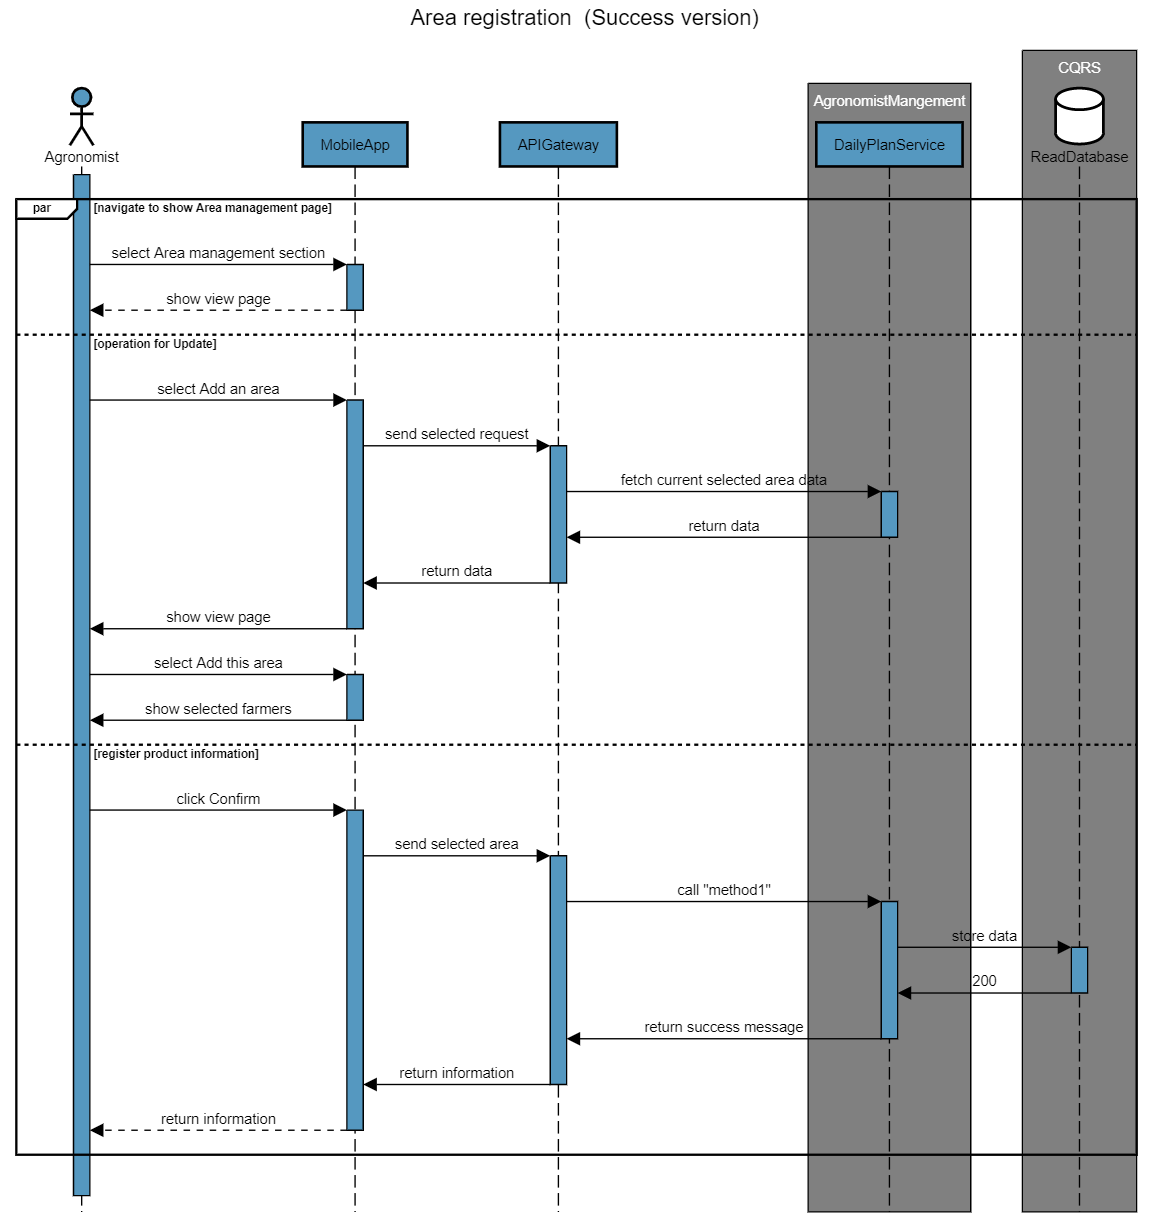
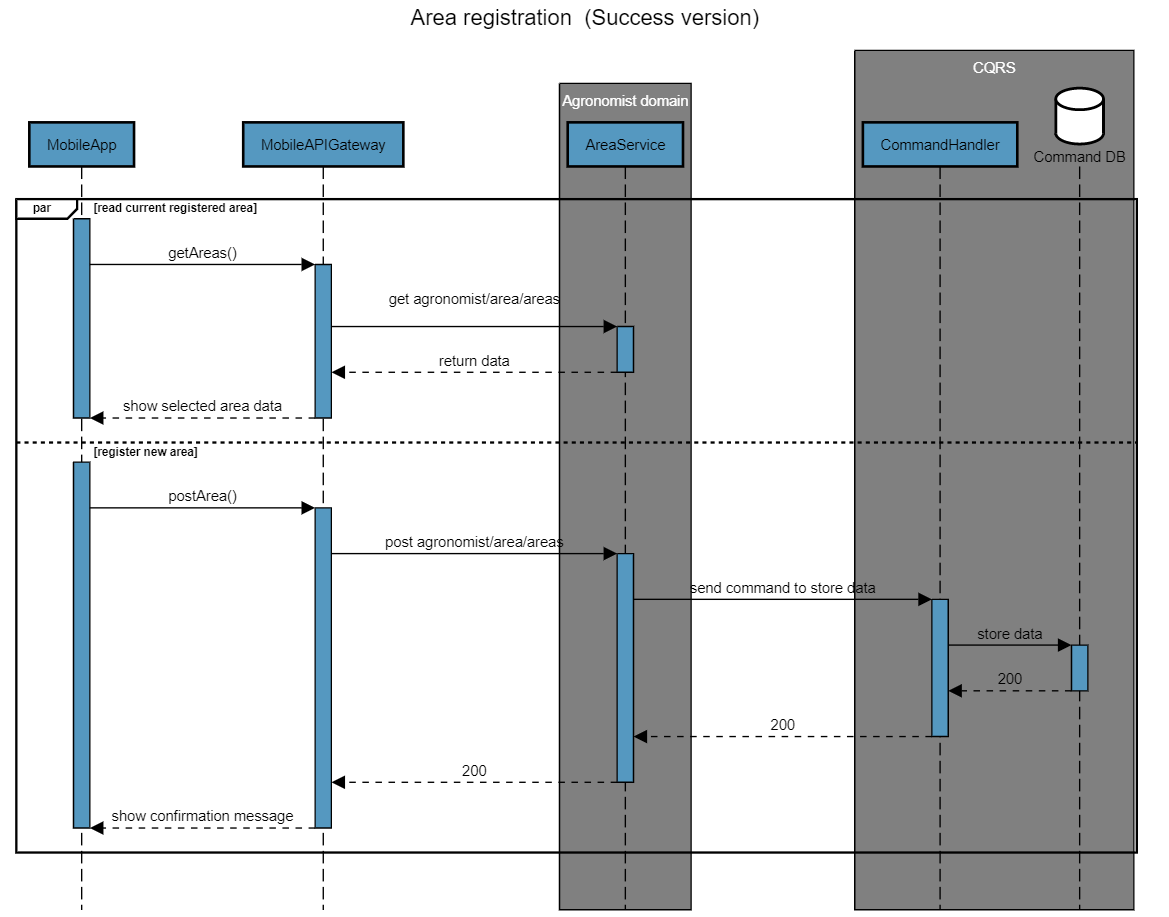
add sequence diagram description, link, refine images

Changed region(s): [[0.0, 0.0305, 0.9855, 1.0], [0.3388, 0.0, 0.6467, 0.0305], [0.9547, 0.458, 0.9855, 0.4885]]

diff --git a/DD/Files/2.Architectural design/runtime_view.tex b/DD/Files/2.Architectural design/runtime_view.tex
@@ -1,42 +1,109 @@
 % ############### 2.4) RUNTIME VIEW ####################
 
-sequence diagrams, interactions description \ldots
+For letting diagram simpler, we supposed that all the example below are operations of success version (without considering any exceptions, every actor inserts the data correctly and satisfies their authorization requirements).
+\newline
+Additionally we also note that API gateway does a communication with authorization server to generate a token to let users execute only the ones they have permission to do. 
 
-Possibly not necessary "Account service"?
+
 \begin{figure}[H]
 	\centering
     \includegraphics[width=\textwidth]{Images/sequence-diagram/sign-up.png}
 	\caption{\label{fig:se_sign_up}Sign Up}
 \end{figure}
+Actor: All type of user
+\newline
+UI flow: {\ref{sec:user_mobile_interface} Sign Up, Login}
 
-Possibly not necessary "Policy maker service"?
+Firstly this diagram explains the flow of sign up for all type of user. 
+Due to CQRS pattern, there are two different database according to their purpose (\ref{sec:component_view}). 
+\newline
+\textsc{\textcolor{blue}{flow overview}}
+
+Mobile App sends a method ”postUser()” to Mobile Api Gateway, then service discovery does a job to find a routing path by URL of REST api.
+Then SignUpService receives post request, after that for updating the database, since it is write operation, it sends command to Command handler to insert the data into Command DB. 
+
+\newpage
 \begin{figure}[H]
 	\centering
     \includegraphics[width=\textwidth]{Images/sequence-diagram/incentive-management.png}
 	\caption{\label{fig:se_incentive}Incentive management}
 \end{figure}
+Actor: Policy maker
+\newline
+UI flow: {\ref{sec:pm_web_interface} Farmer's performance data}
 
+Secondly on this diagram, we would like to highlight about the reasoning of our design decision. We utilized CQRS pattern though, here it shows a comparison of each flow, one with CQRS pattern architecture, another without it.
+By the fact we consider the analysis part taken cared by 3rd party systems, it also suits to have replica of database to fetch aggregated data when it is needed regardless of condition of their system.
+\newline
+\textsc{\textcolor{blue}{flow overview}}
+\newline
+Above part describes the flow of read operation. Search and show the data from database, it is required to access Query DB.
+Then the below part explains the flow of write operation.
+Incentive service needs to call Notification service to let the farmer who is selected to receive it.
+
+\newpage
 \begin{figure}[H]
 	\centering
     \includegraphics[width=\textwidth]{Images/sequence-diagram/product-info.png}
 	\caption{\label{fig:se_product}Product information registration}
 \end{figure}
+Actor: Farmer
+\newline
+UI flow: {\ref{sec:farmer_mob_interface} Production data registration, Help/Suggestion request}
 
-Possibly not necessary "Messaging service"?
+From this diagram, we consider API gateway component contains the operation to communicate with discovery service to find the suitable service location, besides that we also expect that each service has interfaces right before receiving a request as they are shown in two examples above (sign up, incentive management).
+\newline
+\textsc{\textcolor{blue}{flow overview}}
+\newline
+Farmer inserts needed information and send the production data to register it. API gateway contacts to authorization server to assure the permission, if it is verified, then discovery service finds ProductInformationService and execute the method. Since it is write operation, it sends data to Command handler to insert into Command DB.  
+
+\newpage
 \begin{figure}[H]
 	\centering
     \includegraphics[width=\textwidth]{Images/sequence-diagram/help-request.png}
 	\caption{\label{fig:se_help}Help request registration}
 \end{figure}
+Actor: Farmer
+\newline
+UI flow: {\ref{sec:farmer_mob_interface} Production data registration, Help/Suggestion request}
 
+This diagram explains the flow of asking help request.
+As a previous step, it requires farmer to select whom they would like to ask though, we assumed this operation has been done in advance and the diagram above describes the phase afterwards.
+\newline
+\textsc{\textcolor{blue}{flow overview}}
+\newline
+First half shows the flow of read operation to visualise the past messages, on the other hand the below part represents the write operation to send the message. 
+For read operation it does not access to Query DB since the data is not aggregated data, it simply access the database inside of own service.
+
+\newpage
 \begin{figure}[H]
 	\centering
     \includegraphics[width=\textwidth]{Images/sequence-diagram/area-registration.png}
 	\caption{\label{fig:se_area}Area registration}
 \end{figure}
+Actor: Agronomist
+\newline
+UI flow: {\ref{sec:agronomist_mob_interface} Area management}
 
+This diagram shows the flow of registering new area to supervise. As like other examples, this diagram contains read and write operation individually.
+
+\textsc{\textcolor{blue}{flow overview}}
+\newline
+Firstly by calling getAreas(), it will fetch current area information about the place(name of farmers, agronomist). After agronomist observe area information and if they are interested in they could register a new area to supervise it. Write operation require to update Command DB to let new registered data be reachable by other services.
+
+\newpage
 \begin{figure}[H]
 	\centering
     \includegraphics[width=\textwidth]{Images/sequence-diagram/daily-plan.png}
-	\caption{\label{fig:se_daily}Daily plan registration}
+	\caption{\label{fig:se_daily}Remove Daily plan}
 \end{figure}
+Actor: Agronomist
+\newline
+UI flow: {\ref{sec:agronomist_mob_interface} Daily plan management}
+
+As a last example, this diagram shows the flow of updating daily plan of agronomist.
+Unlike other insertion examples, here it deletes the record from database, so it requires DELETE method.
+\newline
+\textsc{\textcolor{blue}{flow overview}}
+\newline
+On the upper part it let agronomist know the daily plan they have. Instead, the bottom explains the flow of deletion operation. Specifying id in url, Command Handler searches the record owns that id and it deletes the one matches. 

diff --git a/DD/Files/5.IIT_plan/integration_plan.tex b/DD/Files/5.IIT_plan/integration_plan.tex
@@ -1,18 +1,53 @@
 % ############ 5.2) INTEGRATION PLAN ########################
 
+
 In this section, we describe how the components are integrated in order to build the S2B. The integration is divided into different phases.
 \newline
 
 First of all, the first components to build are the microservices, since they are the core of the system. It is possible to prioritize the integration of the most critical services at first, and later on add the other services.
-\newline
 
-After this, the API gateway and the Event BUS are the next things to add. The Event BUS will implement all the design patterns related to database communication between microservices, in order to guarantee a correct transmission of information. The API gateway, on the other end, will assure the correct invocation of the methods and functionalities of the microservices.
-\newline
+\begin{figure}[H]
+	\centering
+    \includegraphics[scale=0.4]{Images/Impl, Integr & Test/Integration Plan - Step 1.png}
+	\caption{\label{fig:integration_plan_step_1}Integration - Step 1}
+\end{figure}
+
+After this, the Event BUS is the next thing to add, together with the Shared Read-Only DB. The Event BUS will implement all the design patterns related to database communication between microservices, in order to guarantee a correct transmission of information. The Shared Read-Only DB, crucial in the CQRS pattern, will be kept up-to-date by every single microservice.
+
+\begin{figure}[H]
+	\centering
+    \includegraphics[scale=0.4]{Images/Impl, Integr & Test/Integration Plan - Step 2.png}
+	\caption{\label{fig:integration_plan_step_2}Integration - Step 2}
+\end{figure}
+
+Now comes the API gateway, that will assure the correct invocation of the methods and functionalities of the microservices, together with the Discovery Service, used for routing the requests to the correct microservice instance and for load balancing.
+
+\begin{figure}[H]
+	\centering
+    \includegraphics[scale=0.4]{Images/Impl, Integr & Test/Integration Plan - Step 3.png}
+	\caption{\label{fig:integration_plan_step_3}Integration - Step 3}
+\end{figure}
 
 At this point, it is possible to integrate the authorization server, connected to the API gateway, that will handle all the security aspects, especially those related to authentication and authorization. 
-\newline
+
+\begin{figure}[H]
+	\centering
+    \includegraphics[scale=0.4]{Images/Impl, Integr & Test/Integration Plan - Step 4.png}
+	\caption{\label{fig:integration_plan_step_4}Integration - Step 4}
+\end{figure}
 
 Then, it is time to integrate the external APIs and Databases. Since we are assuming them as given and already implemented, we just need to correctly connect them with the rest of the system.
-\newline
+
+\begin{figure}[H]
+	\centering
+    \includegraphics[scale=0.4]{Images/Impl, Integr & Test/Integration Plan - Step 5.png}
+	\caption{\label{fig:integration_plan_step_5}Integration - Step 5}
+\end{figure}
 
 Finally, it is possible to integrate the mobile application module and the web application module, together with the web browser, that will handle the user-side aspects of the S2B.
+
+\begin{figure}[H]
+	\centering
+    \includegraphics[scale=0.4]{Images/Impl, Integr & Test/Integration Plan - Step 6.png}
+	\caption{\label{fig:integration_plan_step_6}Integration - Step 6}
+\end{figure}

diff --git a/DD/Files/4.req_traceability/req_traceability.tex b/DD/Files/4.req_traceability/req_traceability.tex
@@ -1,1 +1,16 @@
 (possible) requirements summary, requirements to component mapping
+
+In addition, also the software system attributes (described in the RASD) are guaranteed by the architectural design choices made and explained in this document. 
+
+In particular:
+\begin{itemize}
+    \item \textbf{Usability}: it is achieved through a simple and intuitive interface, as shown in section 3. The possible choices are clearly presented to the user, both in the mobile app and in the web application. With this simple type of interface, the application could be used by all types of users, for example also by elders and by people that are not very experienced with electronic devices.
+    
+    \item \textbf{Reliability and Availability}: they are accomplished through replication and the subdivision in microservices. Thanks to modularity and low coupling, possible problems are limited to a single microservice, without affecting others. Moreover, the replication of nodes allows the system to be even more fault tolerant, especially in critical elements such as the API gateway, the Authorization server, the Discovery Service and the shared read-only database. 
+
+    \item \textbf{Security}: it is guaranteed through the Authorization Server and the Access Token pattern. Since the API gateway represents a single point of entrance, the identity of a user can be checked before forwarding his request to the microservices. Moreover, since the access token is passed around the system together with the request, a Role Based Access Protocol (RBAC) could be adopted because the information about the role of a user can be put inside the token. In addition, communication running on HTTP is encrypted thanks to protocols such as HTTPS and SSL.
+
+    \item \textbf{Portability}: it is achieved through the implementation of a web application and the existence of an API gateway. The lightweight web application allows the system to be accessed from any device provided with an internet browser. The API gateway, instead, allows the development of a mobile app for different operating systems (mainly Android and iOS) thanks to the fact that it offers a dedicated interface for each client type, guaranteeing compatibility and providing additional elasticity to the developers.
+
+    \item \textbf{Maintainability and Scalability}: they are accomplished through the Microservice architecture itself. A microservice-based approach grants high modularity and low coupling, with independent components that are easier to maintain, test and fix. Microservices also grant high scalability because new modules can constantly be added to the system for future upgrades, introducing new functionalities, without affecting the behaviour of the other components of the application.
+\end{itemize}

diff --git a/DD/Files/introduction.tex b/DD/Files/introduction.tex
@@ -6,13 +6,27 @@ The final aim of Telengana's government is collecting and analyzing agriculture 
 
 \subsection{Purpose}
 \label{sec:purpose}
-Something to declare the purpose
+This document provides a detailed description of the software architecture chosen for the DREAM application described in the Requirement Analysis and Specification Document. 
 
+This includes architectural components and features, information about the deployment and the interfaces and a description of the adopted patterns. 
+
+Moreover, a runtime view of the core functionalities of the S2B is provided, together with some interaction diagrams between the different components. 
+
+Also some examples of user interface design are provided, in order to give a general idea of how the application will look like.
+
+Finally, there is information about the implementation, integration and testing processes.
 
 
 \subsection{Scope}
 \label{sec:scope}
-Something to talk about the scope
+The system defines three main actors that will interact with the application: policy makers, farmers and agronomists.
+
+Farmers can access the platform to see data relevant for them, such as weather forecasts and personalized suggestions, to insert data about their production and any problem they face, to request for help and suggestions by agronomists and other farmers and to create discussions with other farmers.
+
+Agronomists can insert the area they are responsible of, they can receive and answer to request by farmers, they can see relevant data about their areas, such as weather forecasts, best/under-performing farmers and problems encountered by farmers, and they can also manage daily plans in order to visit periodically the farmers.
+
+Finally, policy makers can visualize information and statistics about the overall process, they can see if the steering initiatives are producing significant results, they can ask well-performing farmers to write good practices and can assign incentives to them.
+
 
 
 \subsection{Definitions, Acronyms, Abbreviations}

diff --git a/DD/Files/2.Architectural design/other_design_decisions.tex b/DD/Files/2.Architectural design/other_design_decisions.tex
@@ -10,3 +10,17 @@ The web application will be the thin client. This means that it will have only p
 
 The mobile application, instead, will be the thick client. In fact, it is reasonable to save useful information on the local memory of the device (for example chats) in order to avoid continuous requests to the platform (less computational load) and to guarantee also some functionalities when the Internet connection is not available.
 
+\subsubsection{Client-side UI composition (for the future)}
+As mentioned in the Monolithic front-end paragraph (section 2.6.12), we suggest a future transition to micro front-ends, which can be achieved by the Client-side UI composition pattern. This pattern will be used to implement a UI screen or page that displays data from multiple services. 
+
+Different teams will develop a client-side UI component (i.e. AngularJS directive) that implements the region of the page/screen for their service. A UI team will be responsible for implementing the page skeletons that build pages/screens by composing multiple, service-specific UI components.
+
+\subsubsection{External APIs and Datasets}
+The system will interact with external interfaces and services, in particular with:
+\begin{itemize}
+    \item IdP providers (such as Google, Facebook, etc.) to simplify the process of user registration
+    \item open datasets that collect information from the territory about weather forecasts, soil moisture, water irrigation, humidity, wildfires, etc. through sensors and satellite technologies
+    \item evaluating algorithms to understand the performance of farmers (positive or negative deviance)
+    \item incentives companies to manage the definition and collection of the vouchers that are assigned to farmers
+    \item weather analysis algorithms to categorize the different weather types and characteristics of the areas, in order to support more specific personalized suggestions and statistics
+\end{itemize}

diff --git a/DD/Files/2.Architectural design/styles_and_patterns.tex b/DD/Files/2.Architectural design/styles_and_patterns.tex
@@ -83,5 +83,5 @@ With this pattern, when making a request to a service, the caller makes a reques
 
 This pattern allows to keep the client code simpler, since it does not have to deal with discovery. In addition, the possibility of using virtualization inside the system’s modules increases the availability and the scalability of the software since it is possible to dynamically generate new service instances when needed.
 
-\subsubsection{Client-side UI composition}
-The Client-side UI composition pattern is used to implement a UI screen or page that displays data from multiple services. Different teams develop a client-side UI component (i.e. AngularJS directive) that implements the region of the page/screen for their service. A UI team is responsible for implementing the page skeletons that build pages/screens by composing multiple, service-specific UI components. 
+\subsubsection{Monolithic front-end}
+For the first implementation and deployment of the system, we decided to adopt a monolithic front-end that handles the calls to the system and puts together all the information gathered by querying the platform, thanks to its simplicity and easy deployment. A future implementation of micro front-ends is suggested in order to guarantee scalability also on the client side, increasing however the complexity of the software, but assuring easier updates for long-term operations. For this particular transition, the user experience could be retrieved through some sort of feedback mechanism in order to develop the most suitable application possible.

diff --git a/DD/Files/2.Architectural design/overview.tex b/DD/Files/2.Architectural design/overview.tex
@@ -4,7 +4,7 @@ DREAM will be implemented using a Microservice Architecture and all the architec
 
 \begin{figure}[H]
 	\centering
-    \includegraphics[scale=0.6]{Images/Architecture/Microservice Architecture Diagram.png}
+    \includegraphics[scale=0.55]{Images/Architecture/Microservice Architecture Diagram.png}
 	\caption{\label{fig:microservice_architecture}High-level Microservice Architecture}
 \end{figure}
 

diff --git a/DD/Files/5.IIT_plan/main_IIT.tex b/DD/Files/5.IIT_plan/main_IIT.tex
@@ -5,12 +5,14 @@
 \input{Files/5.IIT_plan/implementation_plan}
 
 % ############ 5.2) INTEGRATION PLAN ########################
+\newpage
 \subsection{Integration plan}
 \label{sec:integration_plan}
 
 \input{Files/5.IIT_plan/integration_plan}
 
 % ############ 5.3) TEST PLAN ########################
+\newpage
 \subsection{Test plan}
 \label{sec:test_plan}
 

diff --git a/DD/Files/5.IIT_plan/implementation_plan.tex b/DD/Files/5.IIT_plan/implementation_plan.tex
@@ -9,6 +9,7 @@ The S2B will be divided as follows:
     \item API gateway (with Discovery Service)
     \item Authorization Server
     \item Microservices
+    \item Event BUS
     \item External services
 \end{itemize}
  

diff --git a/DD/Files/2.Architectural design/main_design.tex b/DD/Files/2.Architectural design/main_design.tex
@@ -17,6 +17,7 @@
 \input{Files/2.Architectural design/deployment_view}
 
 % 2.4
+\newpage
 \subsection{Runtime view}
 \label{sec:runtime_view}
 \input{Files/2.Architectural design/runtime_view}
